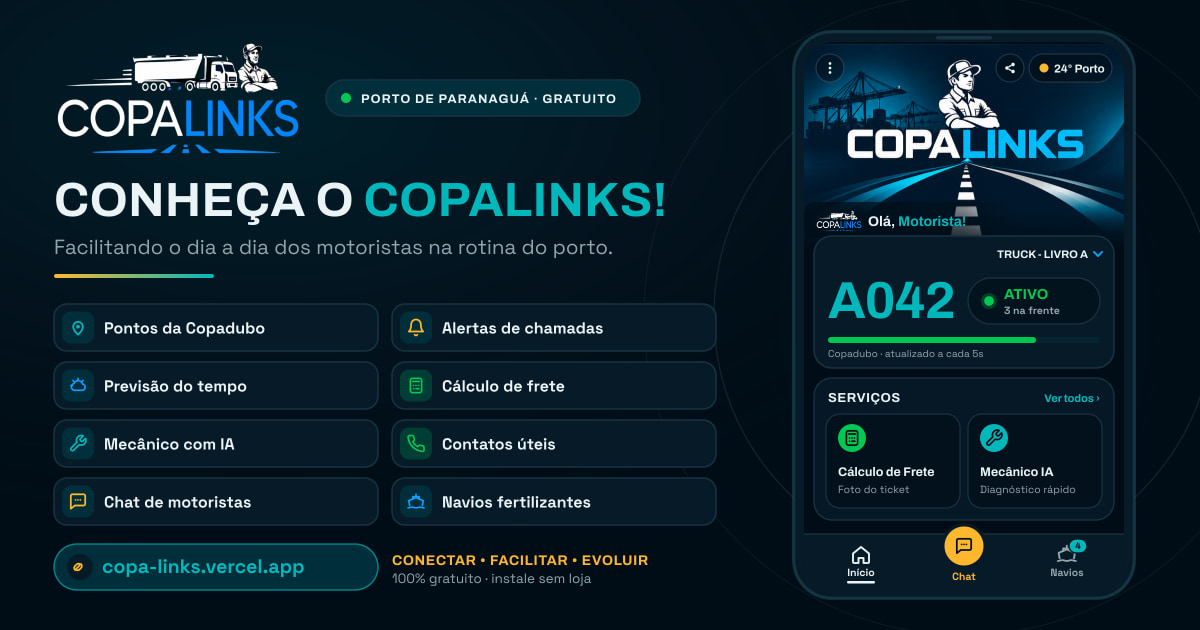
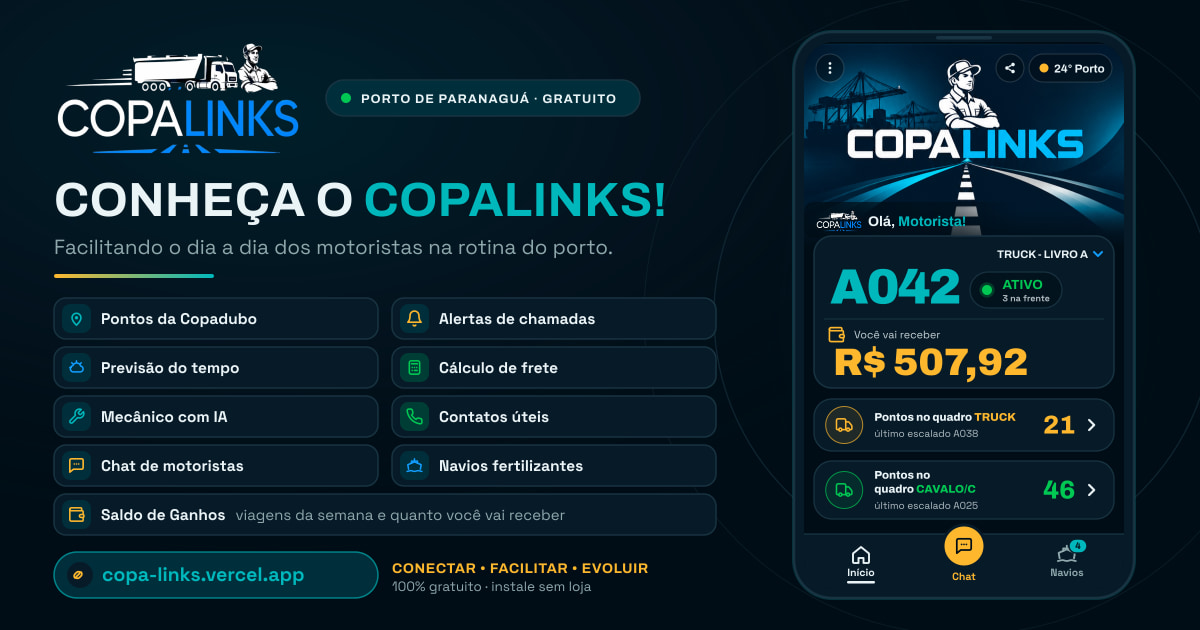
Compartilhar: link no começo da mensagem; Saldo de Ganhos na mensagem e nas artes
Pedido: na mensagem de compartilhar o aplicativo e na imagem, acrescentar a
atualização do Saldo de Ganhos; deixar o link no começo da mensagem.

- Mensagem (src/lib/compartilhar.ts): o endereço do app passa a abrir a
  mensagem — “🔗 Acesse e conheça:” e o link nas duas primeiras linhas — e sai
  do fim (aparece uma vez só; a assinatura continua fechando). A lista ganha o
  nono recurso, no fim: “💰 Saldo de Ganhos: viagens da semana e quanto você
  vai receber”. A descrição curta da prévia do link também cita o saldo.
- Imagem do botão Compartilhar e da prévia do link (compartilhar.jpg): o
  Saldo de Ganhos entra na grade, na largura das duas colunas, e o celular
  desenhado passa a mostrar o cartão novo da tela inicial (número, status ao
  lado, “Você vai receber R$ …” e os dois quadros da fila), nas proporções
  medidas no app a 412 px.
- As outras duas artes (cartão com QR Code e status 1080×1920) e a página
  /divulgacao ganham o mesmo nono recurso: a lista é uma só.
- scripts/gerar-divulgacao.mjs: grade em duas colunas numa função só (com
  número ímpar de recursos o último ocupa as duas colunas); o número e o valor
  do celular pedem “Archivo Black” pelo nome (os .ttf do @fontsource registram
  o peso 900 como família à parte; “Archivo” com peso 900 devolve o Bold).
- As três imagens passam de ?v=2 para ?v=3, para o celular e o WhatsApp não
  ficarem com a arte antiga guardada.

Fora das regiões mexidas as artes são as mesmas de antes; os QR Codes
[…]

Changed region(s): [[0.0308, 0.4524, 0.5858, 0.9651], [0.6783, 0.4222, 0.925, 0.8143]]

diff --git a/tests/divulgacao.test.ts b/tests/divulgacao.test.ts
@@ -7,8 +7,11 @@ import {
   BENEFICIOS,
   CABECALHO_PROMO,
   CHAMADA_LINK_PROMO,
+  DESCRICAO_CURTA,
   FECHO_PROMO,
   IMAGEM_COMPARTILHAR,
+  IMAGEM_DIVULGACAO,
+  IMAGEM_STATUS,
   TITULO_PROMO,
   compartilharAplicativo,
   linhasDaMensagem,
@@ -23,6 +26,9 @@ const ler = (p: string) => readFileSync(p, "utf8");
 const LINK = "https://copa-links.vercel.app";
 
 const MENSAGEM_ESPERADA = [
+  "🔗 *Acesse e conheça:*",
+  "https://copa-links.vercel.app/",
+  "",
   "🚛💙 *Conheça o CopaLinks!*",
   "",
   "Um aplicativo desenvolvido para facilitar o dia a dia dos motoristas no Porto de Paranaguá.",
@@ -35,11 +41,9 @@ const MENSAGEM_ESPERADA = [
   "📲 Contatos e informações úteis",
   "💬 Chat para compartilhar informações com outros motoristas",
   "🚢 Informações sobre a atracação dos navios de fertilizantes",
+  "💰 Saldo de Ganhos: viagens da semana e quanto você vai receber",
   "",
   "Tudo isso em um só aplicativo, gratuito e pensado para quem vive a rotina do porto!",
-  "",
-  "🔗 *Acesse e conheça:*",
-  "https://copa-links.vercel.app/",
   "",
   "💙 *CopaLinks — Conectar • Facilitar • Evoluir.*",
 ].join("\n");
@@ -50,7 +54,7 @@ test("a mensagem de compartilhamento corresponde exatamente ao texto oficial do 
   const msg = mensagemCompartilhar(LINK);
   assert.equal(msg, MENSAGEM_ESPERADA);
   assert.equal(mensagemCompartilhar(`${LINK}/`), MENSAGEM_ESPERADA);
-  assert.ok(msg.startsWith("🚛💙 *Conheça o CopaLinks!*"));
+  assert.ok(msg.includes("\n\n🚛💙 *Conheça o CopaLinks!*\n\n"));
   assert.ok(msg.includes(CABECALHO_PROMO));
   assert.ok(msg.includes(TITULO_PROMO));
   assert.ok(msg.includes(FECHO_PROMO));
@@ -59,9 +63,33 @@ test("a mensagem de compartilhamento corresponde exatamente ao texto oficial do 
   assert.ok(msg.endsWith("💙 *CopaLinks — Conectar • Facilitar • Evoluir.*"));
 });
 
-test("a mensagem lista os oito recursos do aplicativo no Porto de Paranaguá", () => {
+test("a mensagem começa pelo link do app, que aparece uma vez só", () => {
+  const linhas = mensagemCompartilhar(LINK).split("\n");
+  // O endereço tem de estar à vista logo de cara, sem ninguém precisar ler a mensagem até o fim.
+  assert.deepEqual(linhas.slice(0, 3), ["🔗 *Acesse e conheça:*", "https://copa-links.vercel.app/", ""]);
+  assert.equal(linhas.filter((l) => l.includes("http")).length, 1, "o link aparece mais de uma vez (ou sumiu)");
+  assert.equal(linhas.filter((l) => l.includes(CHAMADA_LINK_PROMO)).length, 1);
+  // …e vale para qualquer endereço (o domínio próprio, a prévia da Vercel, o teste local).
+  const outra = mensagemCompartilhar("http://localhost:3000").split("\n");
+  assert.deepEqual(outra.slice(0, 2), ["🔗 *Acesse e conheça:*", "http://localhost:3000/"]);
+  assert.equal(outra.at(-1), "💙 *CopaLinks — Conectar • Facilitar • Evoluir.*");
+});
+
+test("a mensagem lista os nove recursos do aplicativo, com o Saldo de Ganhos", () => {
   const msg = mensagemCompartilhar(LINK);
-  assert.equal(BENEFICIOS.length, 8);
+  assert.equal(BENEFICIOS.length, 9);
+  assert.equal(BENEFICIOS.at(-1)?.titulo, "Saldo de Ganhos: viagens da semana e quanto você vai receber");
+  assert.ok(msg.includes("💰 Saldo de Ganhos: viagens da semana e quanto você vai receber"));
+  assert.ok(DESCRICAO_CURTA.includes("saldo de ganhos"), "a descrição da prévia do link não fala do Saldo de Ganhos");
+  // cada recurso numa linha só, na ordem da lista, entre a chamada e o fecho
+  const linhas = msg.split("\n");
+  const primeiro = linhas.indexOf(`${BENEFICIOS[0].emoji} ${BENEFICIOS[0].titulo}`);
+  assert.deepEqual(
+    linhas.slice(primeiro, primeiro + BENEFICIOS.length),
+    BENEFICIOS.map((b) => `${b.emoji} ${b.titulo}`),
+  );
+  assert.equal(linhas[primeiro - 2], TITULO_PROMO);
+  assert.equal(linhas[primeiro + BENEFICIOS.length + 1], FECHO_PROMO);
   for (const b of BENEFICIOS) {
     assert.ok(
       msg.includes(`${b.emoji} ${b.titulo}`),
@@ -84,7 +112,7 @@ test("a mensagem usa o negrito do WhatsApp (asterisco simples) e mostra o link c
 test("as linhas da mensagem carregam os trechos em negrito", () => {
   const linhas = linhasDaMensagem(LINK);
   const negrito = linhas.flat().filter((t) => t.negrito).map((t) => t.texto);
-  assert.deepEqual(negrito, [CABECALHO_PROMO, CHAMADA_LINK_PROMO, ASSINATURA_PROMO]);
+  assert.deepEqual(negrito, [CHAMADA_LINK_PROMO, CABECALHO_PROMO, ASSINATURA_PROMO]);
 });
 
 test("o link de WhatsApp abre a mensagem preenchida", () => {
@@ -164,6 +192,44 @@ test("a página de divulgação usa a lista única de benefícios", () => {
     );
   }
   assert.ok(comp.includes("PASSOS"), "a página não usa a lista de passos");
+});
+
+test("cada recurso da lista tem o seu ícone na página e a sua linha nas artes", () => {
+  // A página casa ícone e recurso pela posição: lista com um a mais e ícones com um a menos = ícone errado.
+  const comp = ler("src/components/divulgacao/DivulgacaoApp.tsx");
+  const icones = /const ICONES_BENEFICIO = \[([^\]]*)\]/.exec(comp)?.[1] ?? "";
+  const nomes = icones.split(",").map((n) => n.trim()).filter(Boolean);
+  assert.equal(nomes.length, BENEFICIOS.length, `ícones da página: ${nomes.join(", ")}`);
+  assert.equal(nomes.at(-1), "Wallet", "o Saldo de Ganhos (último da lista) sem a carteira");
+  assert.equal(new Set(nomes).size, nomes.length, "ícone repetido na lista");
+
+  // As artes têm a lista delas (rótulos curtos), na mesma ordem e com o mesmo tamanho.
+  const script = ler("scripts/gerar-divulgacao.mjs");
+  const arte = /const RECURSOS_ARTE = \[([\s\S]*?)\n\];/.exec(script)?.[1] ?? "";
+  const rotulos = [...arte.matchAll(/rotulo: "([^"]+)"/g)].map((m) => m[1]);
+  assert.equal(rotulos.length, BENEFICIOS.length, `recursos nas artes: ${rotulos.join(" | ")}`);
+  assert.equal(rotulos.at(-1), "Saldo de Ganhos");
+  assert.equal([...arte.matchAll(/longo: "([^"]+)"/g)].length, BENEFICIOS.length);
+  for (const icone of [...arte.matchAll(/icone: "([^"]+)"/g)].map((m) => m[1])) {
+    assert.ok(script.includes(`\n  ${icone}: (cor) =>`), `as artes usam um ícone que não foi desenhado: ${icone}`);
+  }
+  // O celular desenhado mostra o cartão novo do início, com o saldo.
+  assert.ok(script.includes(">Você vai receber</text>"), "o celular das artes sem o “Você vai receber”");
+  assert.ok(!script.includes("atualizado a cada 5s"), "o celular das artes voltou ao cartão antigo");
+});
+
+test("as três artes levam o mesmo carimbo de versão, também na prévia do link", () => {
+  // O `?v=` muda quando as artes são geradas de novo; se um endereço fica para trás,
+  // aquela tela continua mostrando a imagem antiga guardada no celular.
+  const versao = (url: string) => /\?v=(\d+)$/.exec(url)?.[1];
+  const v = versao(IMAGEM_COMPARTILHAR);
+  assert.ok(v, "a imagem de compartilhar sem carimbo de versão");
+  assert.ok(Number(v) >= 3, "as artes com o Saldo de Ganhos são a versão 3 em diante");
+  assert.equal(versao(IMAGEM_DIVULGACAO), v);
+  assert.equal(versao(IMAGEM_STATUS), v);
+  const page = ler("src/app/divulgacao/page.tsx");
+  const naPagina = [...page.matchAll(/\/images\/divulgacao-card\.jpg\?v=(\d+)/g)].map((m) => m[1]);
+  assert.deepEqual(naPagina, [v, v], "a prévia do link da /divulgacao com outra versão do cartão");
 });
 
 test("a página de divulgação instala o app e mostra o QR Code", () => {

diff --git a/src/lib/compartilhar.ts b/src/lib/compartilhar.ts
@@ -7,21 +7,28 @@
  * (/divulgacao): no WhatsApp o negrito sai com `*`, na página ele vira
  * <b>. Assim o texto que o motorista manda no grupo nunca diverge do que a
  * página promete.
+ *
+ * O endereço do app abre a mensagem (as duas primeiras linhas), para ficar à
+ * vista sem ninguém precisar ler até o fim. Aparece uma vez só.
  */
 
 export const NOME_APP = "Monitor Ponto CopaLinks";
 
 export const LINK_OFICIAL_APP = "https://copa-links.vercel.app/";
 
-export const IMAGEM_COMPARTILHAR = "/images/compartilhar.jpg?v=2";
+/**
+ * O `?v=` é o carimbo do conteúdo: mude o número sempre que a arte for gerada de
+ * novo, senão o celular (e o WhatsApp) continuam com a imagem antiga guardada.
+ */
+export const IMAGEM_COMPARTILHAR = "/images/compartilhar.jpg?v=3";
 
 /** Imagem usada na página de divulgação (cartão de link e status do WhatsApp). */
-export const IMAGEM_DIVULGACAO = "/images/divulgacao-card.jpg?v=2";
-export const IMAGEM_STATUS = "/images/divulgacao-status.jpg?v=2";
+export const IMAGEM_DIVULGACAO = "/images/divulgacao-card.jpg?v=3";
+export const IMAGEM_STATUS = "/images/divulgacao-status.jpg?v=3";
 
 /** Descrição curta: aparece embaixo do título na prévia do link. */
 export const DESCRICAO_CURTA =
-  "Um aplicativo desenvolvido para facilitar o dia a dia dos motoristas no Porto de Paranaguá: monitoramento dos pontos da Copadubo, alertas, tempo, frete, assistente mecânico com IA, contatos, chat e navios de fertilizantes.";
+  "Um aplicativo desenvolvido para facilitar o dia a dia dos motoristas no Porto de Paranaguá: monitoramento dos pontos da Copadubo, alertas, tempo, frete, assistente mecânico com IA, contatos, chat, navios de fertilizantes e saldo de ganhos.";
 
 /** Cabeçalho da mensagem. */
 export const CABECALHO_PROMO = "Conheça o CopaLinks!";
@@ -34,13 +41,17 @@ export const TITULO_PROMO =
 export const FECHO_PROMO =
   "Tudo isso em um só aplicativo, gratuito e pensado para quem vive a rotina do porto!";
 
-/** Rótulo em negrito antes do endereço na mensagem. */
+/** Rótulo em negrito antes do endereço, na primeira linha da mensagem. */
 export const CHAMADA_LINK_PROMO = "Acesse e conheça:";
 
 /** Assinatura no fim da mensagem. */
 export const ASSINATURA_PROMO = "CopaLinks — Conectar • Facilitar • Evoluir.";
 
-/** Os oito recursos do app (emoji + título na mensagem + descrição na página de divulgação). */
+/**
+ * Os nove recursos do app (emoji + título na mensagem + descrição na página de
+ * divulgação). A ordem é a da mensagem; as artes (`scripts/gerar-divulgacao.mjs`)
+ * e os ícones da página (`ICONES_BENEFICIO`) seguem a mesma ordem.
+ */
 export const BENEFICIOS = [
   {
     emoji: "📍",
@@ -82,6 +93,11 @@ export const BENEFICIOS = [
     titulo: "Informações sobre a atracação dos navios de fertilizantes",
     texto: "Acompanhe navios atracados, saldo, manobras previstas e programação dos berços.",
   },
+  {
+    emoji: "💰",
+    titulo: "Saldo de Ganhos: viagens da semana e quanto você vai receber",
+    texto: "Cadastre a sua porcentagem: o app lê os seus tickets no Portal do Motorista e faz a conta da comissão.",
+  },
 ] as const;
 
 /** Os três passos para começar (usados na página de divulgação). */
@@ -118,11 +134,18 @@ export function normalizarLinkCompartilhar(link: string) {
 }
 
 /**
- * A mensagem de divulgação, linha a linha.
+ * A mensagem de divulgação, linha a linha. Começa pelo endereço do app (rótulo
+ * e link, cada um na sua linha) e termina na assinatura; o link aparece uma vez só.
  */
 export function linhasDaMensagem(link: string): Linha[] {
   const endereco = normalizarLinkCompartilhar(link);
   return [
+    [
+      { texto: "🔗 ", negrito: false },
+      { texto: CHAMADA_LINK_PROMO, negrito: true },
+    ],
+    [{ texto: endereco, negrito: false }],
+    [],
     [{ texto: "🚛💙 ", negrito: false }, { texto: CABECALHO_PROMO, negrito: true }],
     [],
     [{ texto: TITULO_PROMO, negrito: false }],
@@ -130,12 +153,6 @@ export function linhasDaMensagem(link: string): Linha[] {
     ...BENEFICIOS.map((b): Linha => [{ texto: `${b.emoji} ${b.titulo}`, negrito: false }]),
     [],
     [{ texto: FECHO_PROMO, negrito: false }],
-    [],
-    [
-      { texto: "🔗 ", negrito: false },
-      { texto: CHAMADA_LINK_PROMO, negrito: true },
-    ],
-    [{ texto: endereco, negrito: false }],
     [],
     [
       { texto: "💙 ", negrito: false },

diff --git a/src/app/divulgacao/page.tsx b/src/app/divulgacao/page.tsx
@@ -27,14 +27,14 @@ export async function generateMetadata(): Promise<Metadata> {
       description: DESCRICAO_CURTA,
       url: pagina,
       images: [
-        { url: "/images/divulgacao-card.jpg?v=2", width: 1200, height: 630, alt: NOME_APP },
+        { url: "/images/divulgacao-card.jpg?v=3", width: 1200, height: 630, alt: NOME_APP },
       ],
     },
     twitter: {
       card: "summary_large_image",
       title: `${NOME_APP} · Instale no celular`,
       description: DESCRICAO_CURTA,
-      images: ["/images/divulgacao-card.jpg?v=2"],
+      images: ["/images/divulgacao-card.jpg?v=3"],
     },
   };
 }

diff --git a/src/components/divulgacao/DivulgacaoApp.tsx b/src/components/divulgacao/DivulgacaoApp.tsx
@@ -25,6 +25,7 @@ import {
   Signal,
   Smartphone,
   Truck,
+  Wallet,
   Wrench,
 } from "lucide-react";
 import {
@@ -155,6 +156,7 @@ const ICONES_BENEFICIO = [
   Phone,
   MessagesSquare,
   Ship,
+  Wallet,
 ];
 
 /* ------------------------------------------------------------- página */

diff --git a/README.md b/README.md
@@ -1034,11 +1034,15 @@ O texto que o motorista manda no WhatsApp (botão **Compartilhar** na tela de
 início) e a página pública **/divulgacao** saem da **mesma lista** — em
 `src/lib/compartilhar.ts`:
 
-- `BENEFICIOS` — os oito recursos do app (monitoramento, alertas, fila em
-  tempo real, tempo, frete, assistente IA, chat e contatos). É a fonte
-  única: a mensagem e os cartões da página nunca divergem.
+- `BENEFICIOS` — os nove recursos do app (monitoramento dos pontos, alertas,
+  tempo, frete, assistente mecânico com IA, contatos, chat, navios e Saldo de
+  Ganhos). É a fonte única: a mensagem e os cartões da página nunca divergem.
+  Recurso novo entra aqui, ganha um ícone em `ICONES_BENEFICIO` (na página, na
+  mesma posição) e uma linha em `RECURSOS_ARTE` (no script das artes).
 - `linhasDaMensagem(link)` — a mensagem linha a linha, com os trechos em
-  negrito. No WhatsApp o negrito sai com `*` (o WhatsApp não entende `**`
+  negrito. **Começa pelo endereço do app** (rótulo e link nas duas primeiras
+  linhas), para ficar à vista sem ninguém precisar ler até o fim. O link
+  aparece uma vez só; a assinatura fecha a mensagem. No WhatsApp o negrito sai com `*` (o WhatsApp não entende `**`
   nem link em markdown `[]( )`), e na página o mesmo trecho vira `<b>`.
 - `mensagemCompartilhar(link)` — o texto pronto (copiar, enviar pelo
   WhatsApp ou pela folha de compartilhamento do aparelho).
@@ -1063,8 +1067,15 @@ administrador.
 
 **Artes:** `node scripts/gerar-divulgacao.mjs` (aceita
 `--url=https://copa-links.vercel.app`) gera
-`public/images/divulgacao-status.jpg` (1080×1920, status do WhatsApp) e
-`public/images/divulgacao-card.jpg` (1200×630, prévia do link). Para o texto
+`public/images/compartilhar.jpg` (1200×630, a imagem que vai com a mensagem do
+botão Compartilhar e a prévia do link do app, com o celular mostrando a tela
+inicial), `public/images/divulgacao-status.jpg` (1080×1920, status do WhatsApp) e
+`public/images/divulgacao-card.jpg` (1200×630, prévia do link da /divulgacao).
+As três listam os recursos de `RECURSOS_ARTE`, na ordem de `BENEFICIOS`; com
+número ímpar, o último ocupa a largura das duas colunas. **Depois de gerar,
+aumente o `?v=`** das três imagens em `src/lib/compartilhar.ts` e em
+`src/app/divulgacao/page.tsx` — sem isso o celular e o WhatsApp continuam com a
+imagem antiga guardada. Para o texto
 sair com as fontes da marca (Archivo e Space Grotesk), converta os `.woff2` do
 `@fontsource` em `.ttf` e instale no sistema (ex.: em `~/.fonts`); sem isso o
 script usa a fonte padrão e as imagens continuam legíveis.
